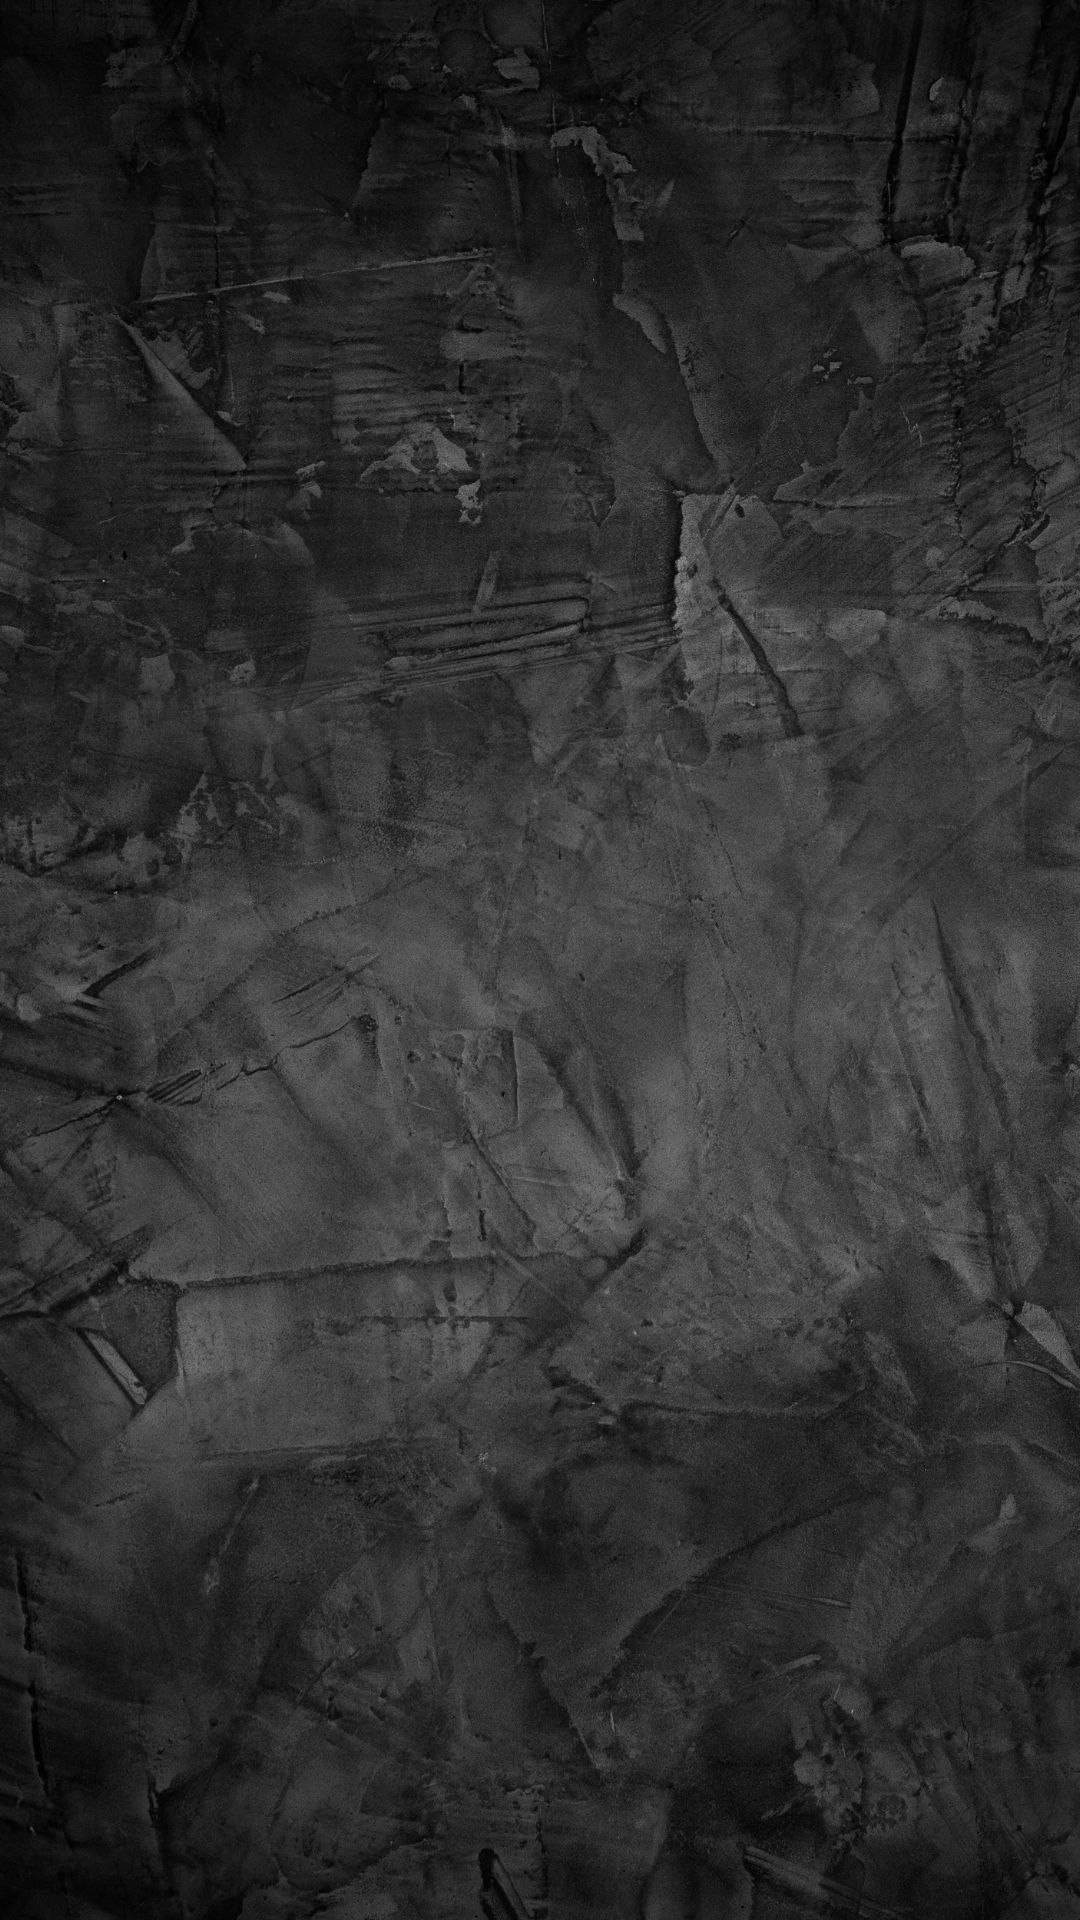
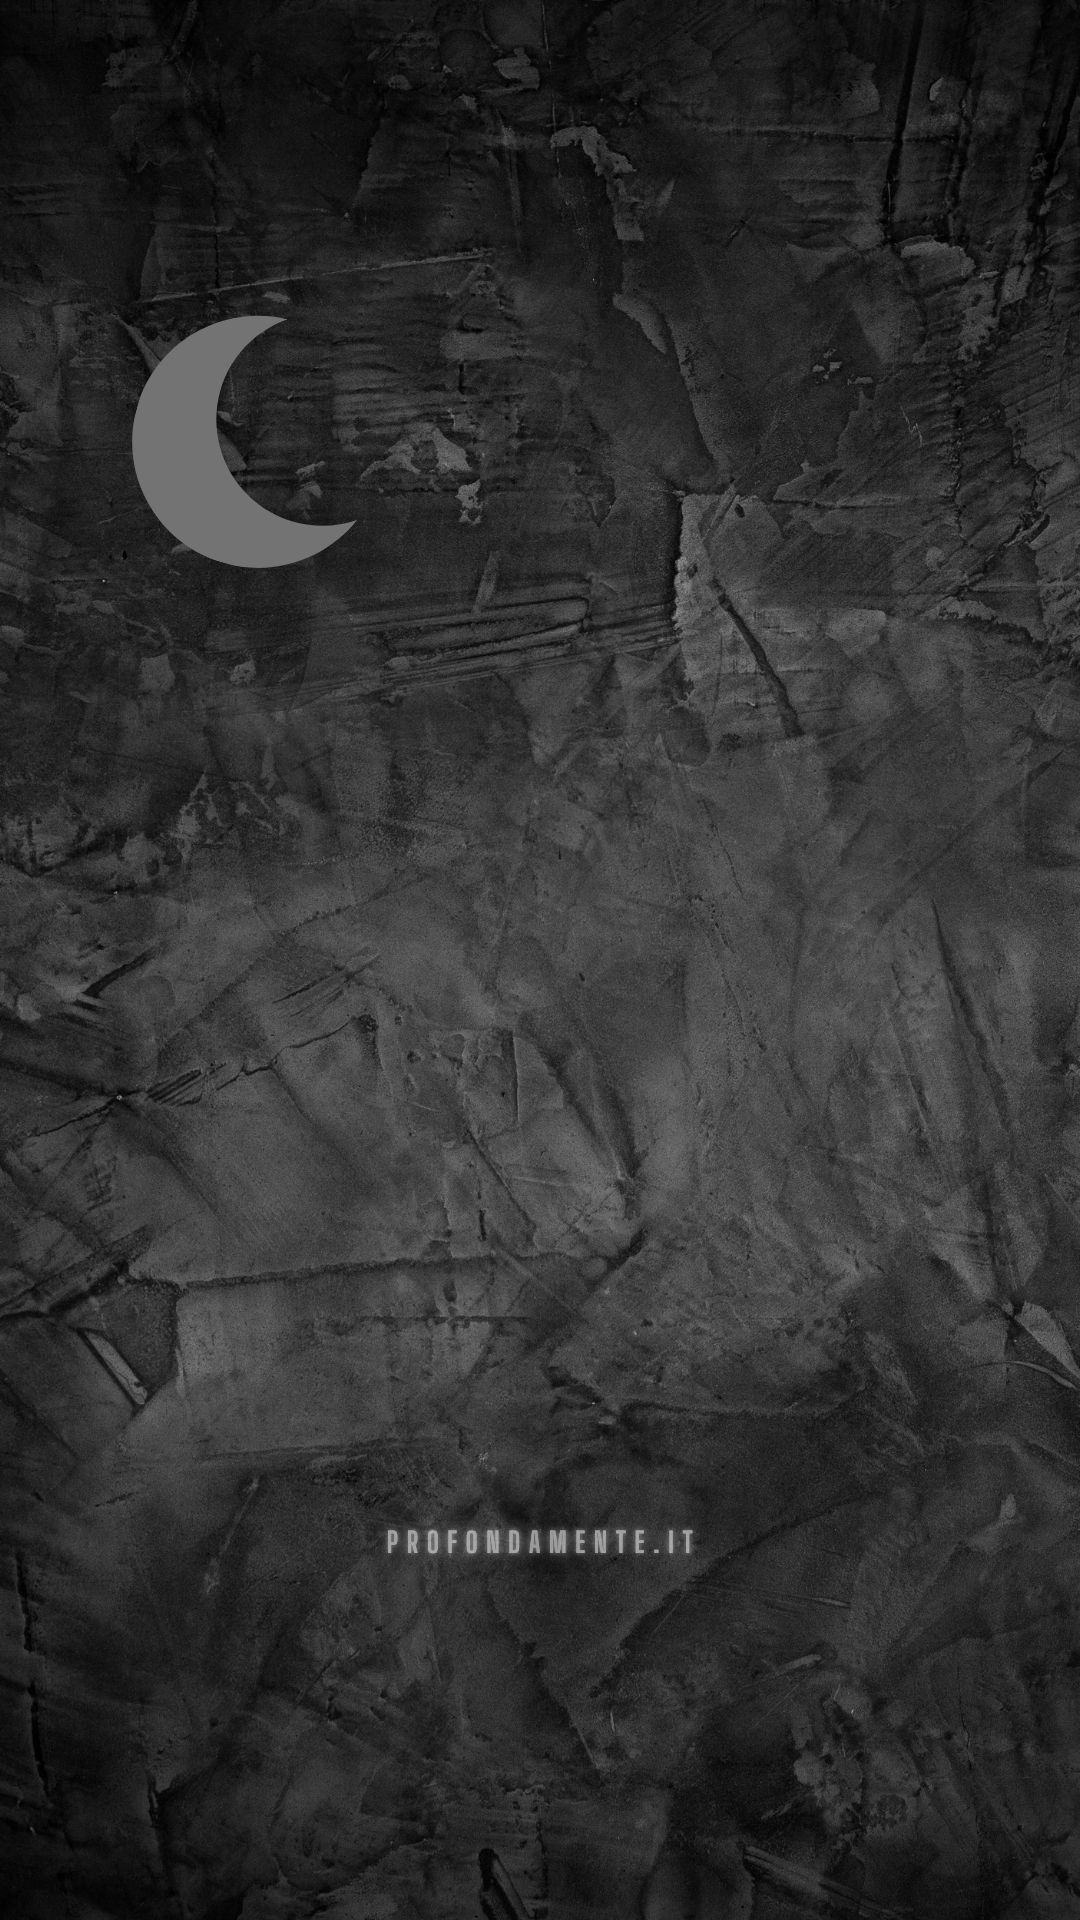
Passa a Open Sans e rimuove la sottolineatura sotto l'autore
Aforisma in Open Sans bold, autore sotto in Open Sans regular piu
piccolo, senza linea di sottolineatura (non era comunque calcolabile
in modo esatto con drawtext). Aggiorna anche l'immagine di sfondo.

Changed region(s): [[0.1222, 0.1562, 0.3361, 0.3125], [0.3361, 0.7812, 0.6417, 0.8125]]

diff --git a/assets/README.md b/assets/README.md
@@ -1,13 +1,10 @@
 # Asset fissi
 
-**Nota:** `image.jpg` e `audio.mp3` presenti ora sono segnaposto generati automaticamente per testare la pipeline (sfondo grigio con scritta "PLACEHOLDER", tono a 440Hz). Sostituiscili con i file veri prima di attivare la pubblicazione reale.
-
-
 Metti qui i file che l'automazione userà a ogni esecuzione (vengono committati nel repo, quindi restano stabili finché non li sostituisci):
 
 - `image.jpg` — l'immagine fissa di sfondo (qualsiasi risoluzione, viene adattata automaticamente al formato 9:16)
 - `audio.mp3` — la traccia audio royalty-free di cui hai i diritti d'uso (se più corta di 15 secondi viene ripetuta automaticamente in loop)
-- `quote.txt`, `author.txt`, `author_underline_width.txt`, `caption.txt` — **non vanno modificati a mano**: vengono sovrascritti automaticamente a ogni esecuzione con l'aforisma/autore presi dal Google Sheet (vedi [`../README.md`](../README.md#coda-testi-google-sheet))
-- `font.ttf` (opzionale) — un font TrueType serif per il testo dell'aforisma; se non lo aggiungi viene usato un font di sistema di default (DejaVu Serif Bold). Il nome dell'autore usa sempre DejaVu Sans Bold, non è personalizzabile da qui.
+- `quote.txt`, `author.txt`, `caption.txt` — **non vanno modificati a mano**: vengono sovrascritti automaticamente a ogni esecuzione con l'aforisma/autore presi dal Google Sheet (vedi [`../README.md`](../README.md#coda-testi-google-sheet))
+- `font.ttf` (opzionale) — un font TrueType per il testo dell'aforisma (bold); se non lo aggiungi viene usato Open Sans di sistema. Il nome dell'autore usa sempre Open Sans (peso normale, dimensione più piccola), non è personalizzabile da qui.
 
 Per cambiare immagine o audio in futuro, basta sostituire questi file e fare commit/push: la prossima esecuzione schedulata userà automaticamente le versioni nuove. Per cambiare i testi, si aggiungono righe al Google Sheet, non a questo repo.

diff --git a/README.md b/README.md
@@ -7,7 +7,7 @@ Pubblica automaticamente un Reel di 15 secondi (immagine fissa + testo fisso + m
 - **`.github/workflows/publish.yml`**: schedulato (cron), scarica il prossimo testo dal Google Sheet, genera il video con ffmpeg, lo pubblica come asset di una GitHub Release (hosting pubblico gratuito, necessario perché la Graph API scarica il video da un URL, non accetta upload diretto), poi lo pubblica su Instagram tramite le tre fasi della Graph API (creazione contenitore, polling, pubblicazione), e infine aggiorna lo stato della coda testi.
 - **`.github/workflows/refresh-token.yml`**: schedulato settimanalmente, rinnova il token long-lived Instagram (valido 60 giorni) prima che scada, e aggiorna da solo il secret del repo. Non richiede mai intervento manuale finché il workflow continua a girare.
 - **`scripts/fetch_next_caption.sh`**: scarica il Google Sheet (pubblicato come CSV), prende la prossima riga non ancora usata (colonna A = aforisma, colonna B = autore), scrive `assets/quote.txt` e `assets/author.txt` (per il video) e `assets/caption.txt` (aforisma + autore, per la caption del post), e aggiorna `state/queue_index.txt`. Quando le righe finiscono, ricomincia dalla prima (loop).
-- **`scripts/generate_video.sh`**: genera `output/reel.mp4` da `assets/image.jpg` + `assets/audio.mp3` + `assets/quote.txt` + `assets/author.txt`, 9:16, H.264/AAC, 15 secondi. L'aforisma è in font serif grande, l'autore sotto in font sans più piccolo con una linea sotto (sottolineatura simulata con un rettangolo, larghezza stimata dalla lunghezza del nome: è un'approssimazione, non un calcolo esatto della larghezza del testo renderizzato).
+- **`scripts/generate_video.sh`**: genera `output/reel.mp4` da `assets/image.jpg` + `assets/audio.mp3` + `assets/quote.txt` + `assets/author.txt`, 9:16, H.264/AAC, 15 secondi. Font Open Sans per entrambi i testi: l'aforisma grande (bold, 58px), l'autore sotto più piccolo (regular, 36px), nessuna sottolineatura.
 - **`scripts/publish_reel.sh`**: chiama la Graph API (`graph.instagram.com`) per pubblicare un video già hostato pubblicamente.
 
 ## Coda testi (Google Sheet)